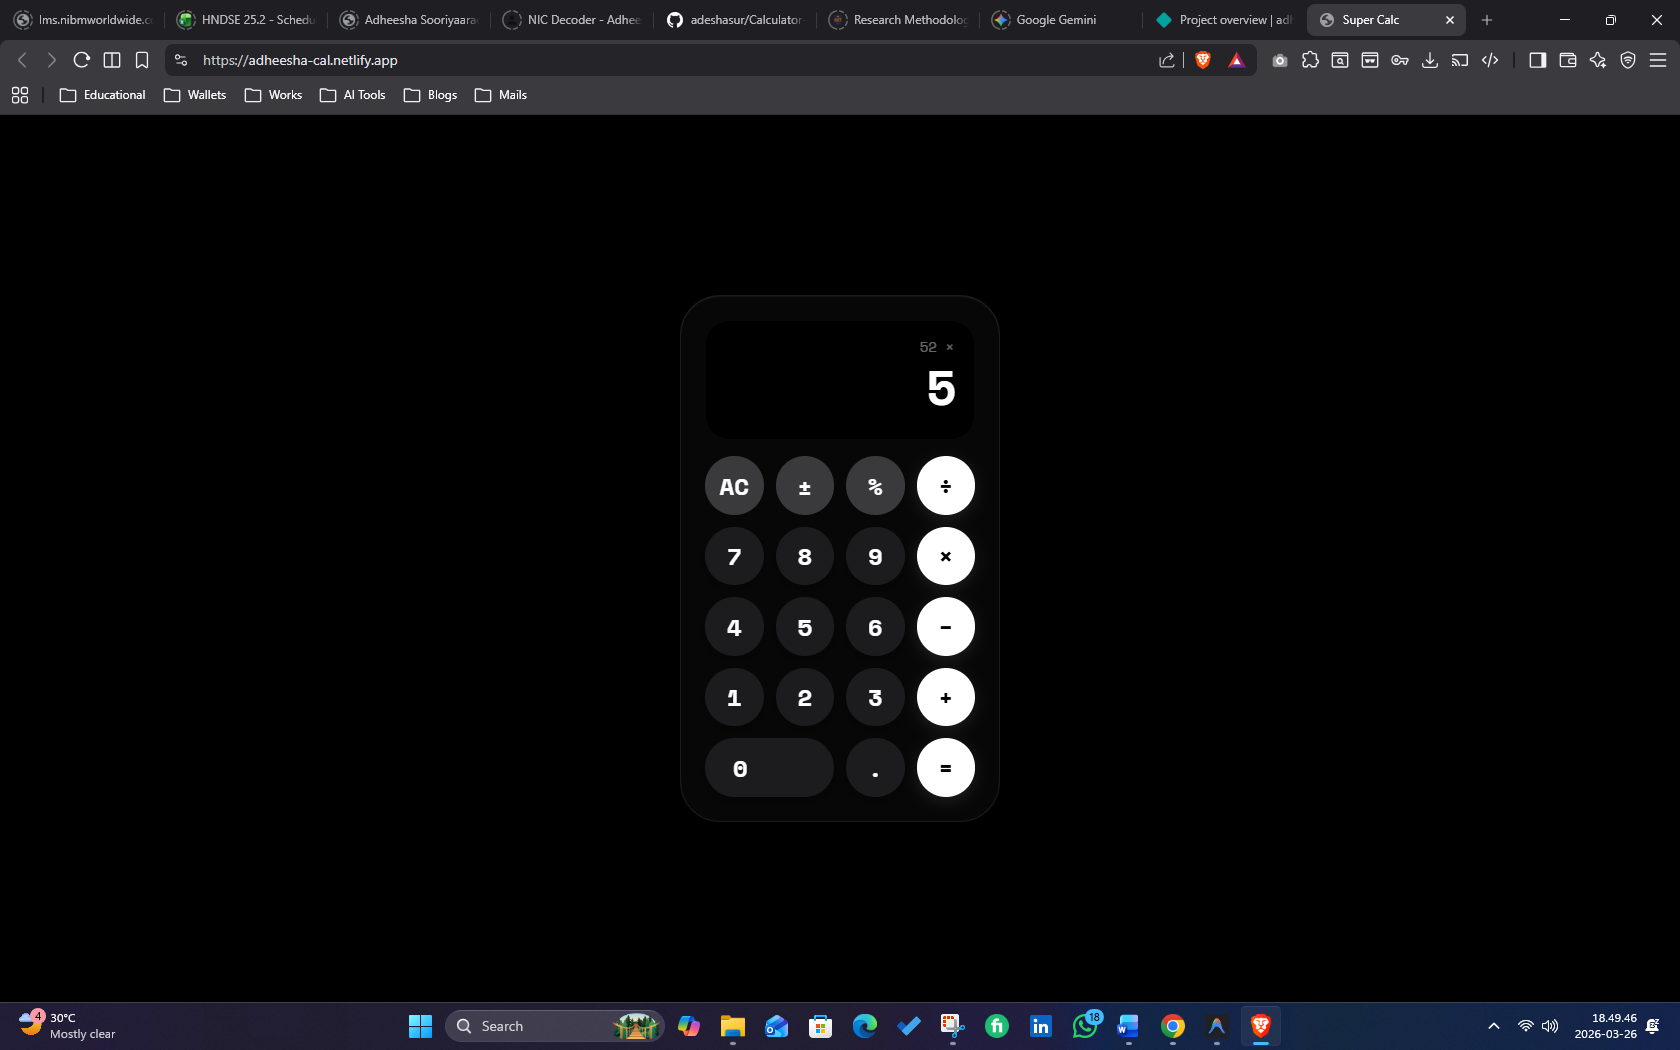
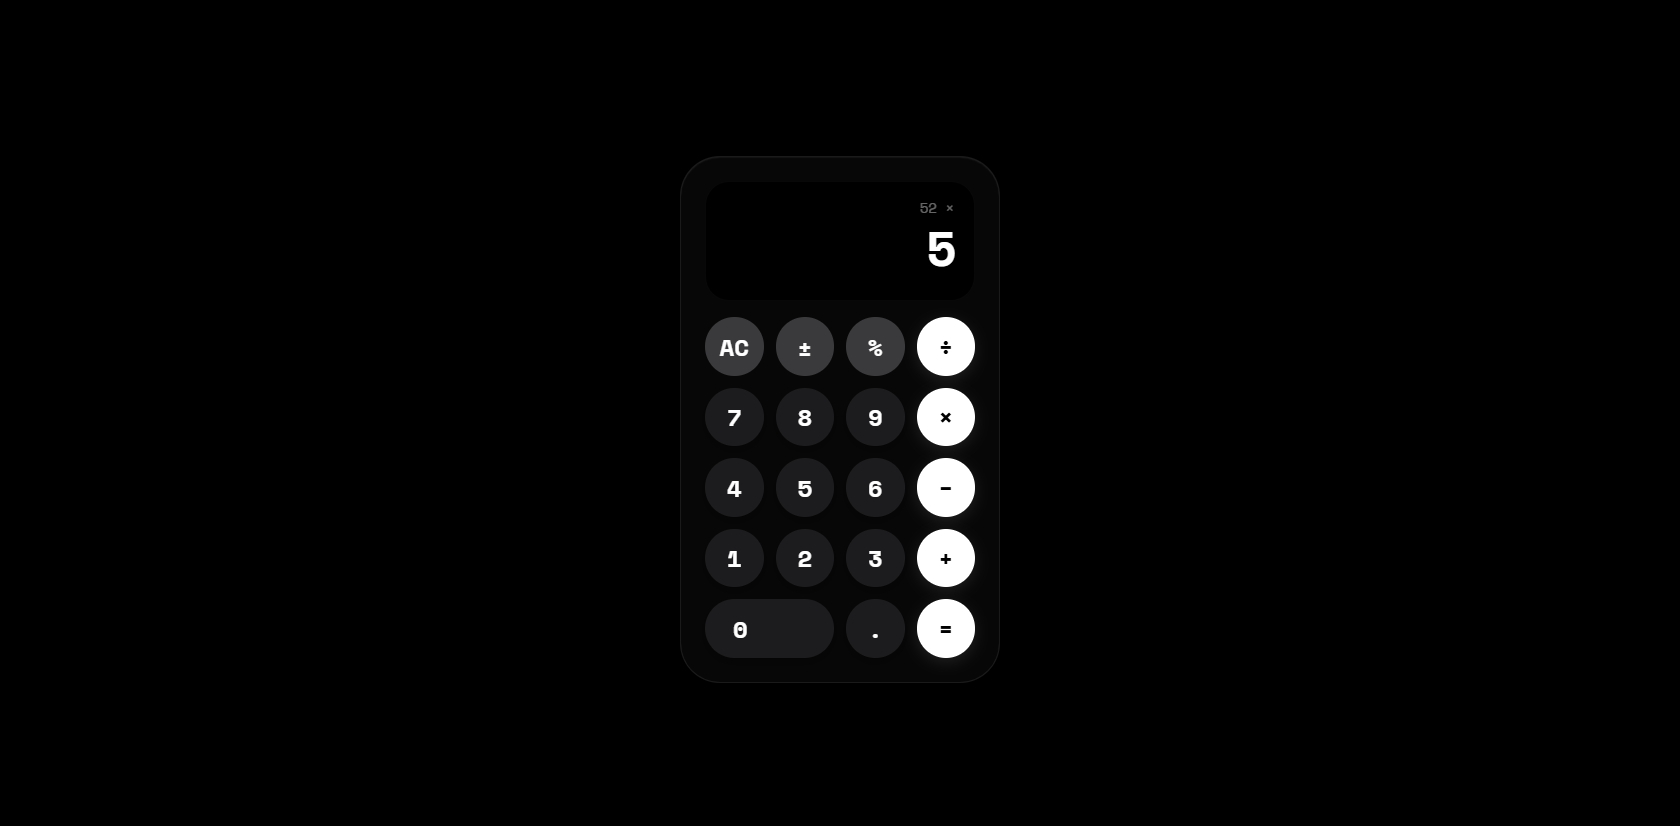
Remove emojis from README for a cleaner look

diff --git a/README.md b/README.md
@@ -4,7 +4,7 @@ A sophisticated, high-performance calculator application built with a minimalist
 
 ![Calculator Screenshot](Calculator-App.png)
 
-## ✨ Features
+## Features
 
 - **Minimalist Design**: A premium "Deep Black" monochrome theme for maximum focus and readability.
 - **Glassmorphism**: Subtle glass-like interface elements for a modern, high-end feel.
@@ -13,18 +13,18 @@ A sophisticated, high-performance calculator application built with a minimalist
 - **Tactile Feedback**: Interactive "press" animations for both mouse and keyboard inputs.
 - **Accurate Arithmetic**: Robust logic that handles thousands-format parsing and floating-point precision (e.g., `0.1 + 0.2 = 0.3`).
 
-## 🚀 Live Demo
+## Live Demo
 
 Experience the calculator live here:  
 **[adheesha-cal.netlify.app](https://adheesha-cal.netlify.app/)**
 
-## 🛠 Tech Stack
+## Tech Stack
 
 - **HTML5**: Semantic structure.
 - **CSS3**: Vanilla CSS with modern grid layouts and glassmorphism effects.
 - **JavaScript**: Custom logic for arithmetic, formatting, and event handling.
 
-## ⌨ Keyboard Shortcuts
+## Keyboard Shortcuts
 
 | Key | Action |
 | --- | --- |
